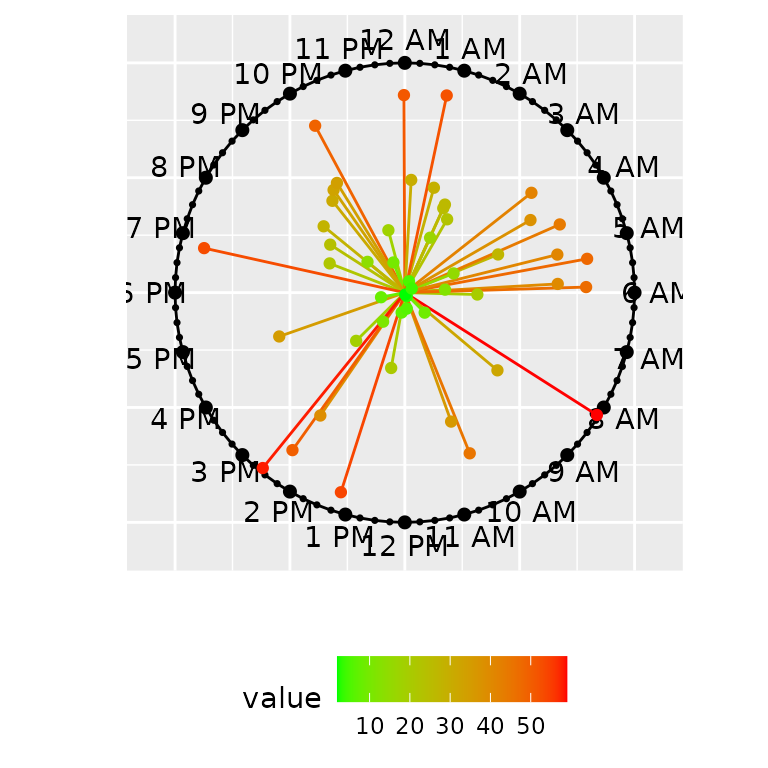
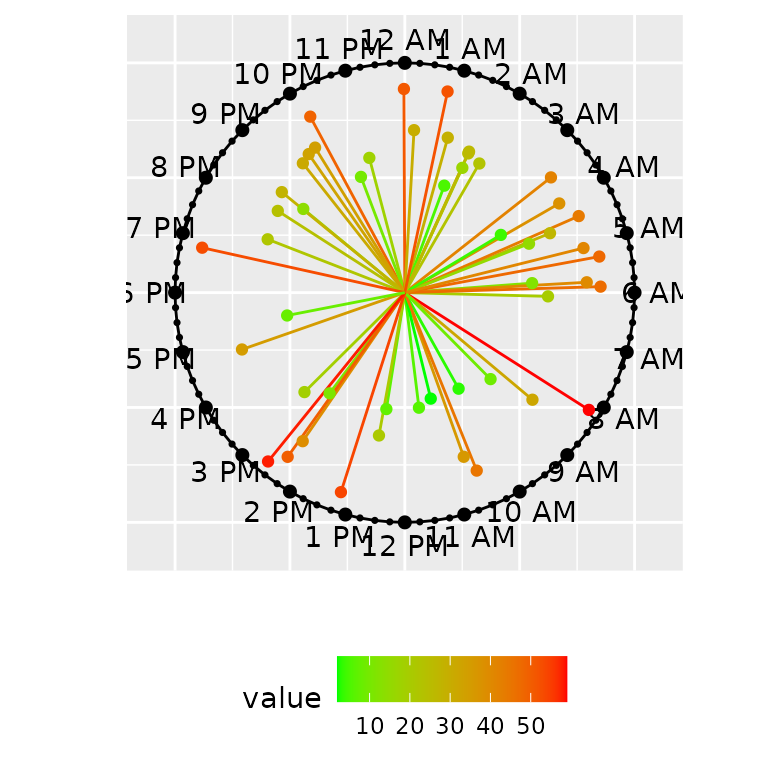
Deploying to gh-pages from @ mahmudstat/clockplot@1c2b78ede71a068915068b237c1ad4b2ace71b62 🚀

diff --git a/reference/clock_chart_qnt.html b/reference/clock_chart_qnt.html
@@ -1,5 +1,5 @@
 <!DOCTYPE html>
-<!-- Generated by pkgdown: do not edit by hand --><html lang="en"><head><meta http-equiv="Content-Type" content="text/html; charset=UTF-8"><meta charset="utf-8"><meta http-equiv="X-UA-Compatible" content="IE=edge"><meta name="viewport" content="width=device-width, initial-scale=1, shrink-to-fit=no"><title>Clock Chart, Length and Color Modified by a Numeric Variable — clock_chart_qnt • clockplot</title><!-- favicons --><link rel="icon" type="image/png" sizes="16x16" href="../favicon-16x16.png"><link rel="icon" type="image/png" sizes="32x32" href="../favicon-32x32.png"><link rel="apple-touch-icon" type="image/png" sizes="180x180" href="../apple-touch-icon.png"><link rel="apple-touch-icon" type="image/png" sizes="120x120" href="../apple-touch-icon-120x120.png"><link rel="apple-touch-icon" type="image/png" sizes="76x76" href="../apple-touch-icon-76x76.png"><link rel="apple-touch-icon" type="image/png" sizes="60x60" href="../apple-touch-icon-60x60.png"><script src="../deps/jquery-3.6.0/jquery-3.6.0.min.js"></script><meta name="viewport" content="width=device-width, initial-scale=1, shrink-to-fit=no"><link href="../deps/bootstrap-5.3.1/bootstrap.min.css" rel="stylesheet"><script src="../deps/bootstrap-5.3.1/bootstrap.bundle.min.js"></script><link href="../deps/font-awesome-6.4.2/css/all.min.css" rel="stylesheet"><link href="../deps/font-awesome-6.4.2/css/v4-shims.min.css" rel="stylesheet"><script src="../deps/headroom-0.11.0/headroom.min.js"></script><script src="../deps/headroom-0.11.0/jQuery.headroom.min.js"></script><script src="../deps/bootstrap-toc-1.0.1/bootstrap-toc.min.js"></script><script src="../deps/clipboard.js-2.0.11/clipboard.min.js"></script><script src="../deps/search-1.0.0/autocomplete.jquery.min.js"></script><script src="../deps/search-1.0.0/fuse.min.js"></script><script src="../deps/search-1.0.0/mark.min.js"></script><!-- pkgdown --><script src="../pkgdown.js"></script><meta property="og:title" content="Clock Chart, Length and Color Modified by a Numeric Variable — clock_chart_qnt"><meta name="description" content="This function will plot time of events on a 24 hour clock to show which
+<!-- Generated by pkgdown: do not edit by hand --><html lang="en"><head><meta http-equiv="Content-Type" content="text/html; charset=UTF-8"><meta charset="utf-8"><meta http-equiv="X-UA-Compatible" content="IE=edge"><meta name="viewport" content="width=device-width, initial-scale=1, shrink-to-fit=no"><title>Clock Chart, Length and Color Modified by Numeric Variables — clock_chart_qnt • clockplot</title><!-- favicons --><link rel="icon" type="image/png" sizes="16x16" href="../favicon-16x16.png"><link rel="icon" type="image/png" sizes="32x32" href="../favicon-32x32.png"><link rel="apple-touch-icon" type="image/png" sizes="180x180" href="../apple-touch-icon.png"><link rel="apple-touch-icon" type="image/png" sizes="120x120" href="../apple-touch-icon-120x120.png"><link rel="apple-touch-icon" type="image/png" sizes="76x76" href="../apple-touch-icon-76x76.png"><link rel="apple-touch-icon" type="image/png" sizes="60x60" href="../apple-touch-icon-60x60.png"><script src="../deps/jquery-3.6.0/jquery-3.6.0.min.js"></script><meta name="viewport" content="width=device-width, initial-scale=1, shrink-to-fit=no"><link href="../deps/bootstrap-5.3.1/bootstrap.min.css" rel="stylesheet"><script src="../deps/bootstrap-5.3.1/bootstrap.bundle.min.js"></script><link href="../deps/font-awesome-6.4.2/css/all.min.css" rel="stylesheet"><link href="../deps/font-awesome-6.4.2/css/v4-shims.min.css" rel="stylesheet"><script src="../deps/headroom-0.11.0/headroom.min.js"></script><script src="../deps/headroom-0.11.0/jQuery.headroom.min.js"></script><script src="../deps/bootstrap-toc-1.0.1/bootstrap-toc.min.js"></script><script src="../deps/clipboard.js-2.0.11/clipboard.min.js"></script><script src="../deps/search-1.0.0/autocomplete.jquery.min.js"></script><script src="../deps/search-1.0.0/fuse.min.js"></script><script src="../deps/search-1.0.0/mark.min.js"></script><!-- pkgdown --><script src="../pkgdown.js"></script><meta property="og:title" content="Clock Chart, Length and Color Modified by Numeric Variables — clock_chart_qnt"><meta name="description" content="This function will plot time of events on a 24 hour clock to show which
 events took place at what times. The length and color of the hands are
 modified according to a numeric vector."><meta property="og:description" content="This function will plot time of events on a 24 hour clock to show which
 events took place at what times. The length and color of the hands are
@@ -34,7 +34,7 @@ modified according to a numeric vector."><meta property="og:image" content="http
 </nav><div class="container template-reference-topic">
 <div class="row">
   <main id="main" class="col-md-9"><div class="page-header">
-      <img src="../logo.png" class="logo" alt=""><h1>Clock Chart, Length and Color Modified by a Numeric Variable</h1>
+      <img src="../logo.png" class="logo" alt=""><h1>Clock Chart, Length and Color Modified by Numeric Variables</h1>
 
       <div class="d-none name"><code>clock_chart_qnt.Rd</code></div>
     </div>
@@ -100,7 +100,7 @@ excluding more complex options.</p>
     <div class="section level2">
     <h2 id="ref-examples">Examples<a class="anchor" aria-label="anchor" href="#ref-examples"></a></h2>
     <div class="sourceCode"><pre class="sourceCode r"><code><span class="r-in"><span><span class="va">p1</span> <span class="op">&lt;-</span> <span class="fu">clock_chart_qnt</span><span class="op">(</span>data <span class="op">=</span> <span class="va">bdquake</span>, time <span class="op">=</span> <span class="va">hms</span>, len <span class="op">=</span> <span class="va">depth</span>,</span></span>
-<span class="r-in"><span>Col <span class="op">=</span> <span class="va">mag</span>, high <span class="op">=</span> <span class="st">"red"</span>, low <span class="op">=</span> <span class="st">"yellow"</span><span class="op">)</span></span></span>
+<span class="r-in"><span>Col <span class="op">=</span> <span class="va">mag</span>, high <span class="op">=</span> <span class="st">"red"</span>, low <span class="op">=</span> <span class="st">"blue"</span><span class="op">)</span></span></span>
 <span class="r-in"><span><span class="va">p1</span> <span class="op">+</span> <span class="fu">ggplot2</span><span class="fu">::</span><span class="fu"><a href="https://ggplot2.tidyverse.org/reference/labs.html" class="external-link">labs</a></span><span class="op">(</span>color <span class="op">=</span> <span class="st">"Depth"</span>, size <span class="op">=</span> <span class="st">"Magnitude"</span>,</span></span>
 <span class="r-in"><span>title <span class="op">=</span> <span class="st">"Earthquakes in Bangladesh since 2023"</span><span class="op">)</span></span></span>
 <span class="r-plt img"><img src="clock_chart_qnt-1.png" alt="" width="700" height="433"></span>

diff --git a/reference/bdtemp.html b/reference/bdtemp.html
@@ -1,5 +1,5 @@
 <!DOCTYPE html>
-<!-- Generated by pkgdown: do not edit by hand --><html lang="en"><head><meta http-equiv="Content-Type" content="text/html; charset=UTF-8"><meta charset="utf-8"><meta http-equiv="X-UA-Compatible" content="IE=edge"><meta name="viewport" content="width=device-width, initial-scale=1, shrink-to-fit=no"><title>Temperature data of Bangladesh Divisional Cities — bdtemp • clockplot</title><!-- favicons --><link rel="icon" type="image/png" sizes="16x16" href="../favicon-16x16.png"><link rel="icon" type="image/png" sizes="32x32" href="../favicon-32x32.png"><link rel="apple-touch-icon" type="image/png" sizes="180x180" href="../apple-touch-icon.png"><link rel="apple-touch-icon" type="image/png" sizes="120x120" href="../apple-touch-icon-120x120.png"><link rel="apple-touch-icon" type="image/png" sizes="76x76" href="../apple-touch-icon-76x76.png"><link rel="apple-touch-icon" type="image/png" sizes="60x60" href="../apple-touch-icon-60x60.png"><script src="../deps/jquery-3.6.0/jquery-3.6.0.min.js"></script><meta name="viewport" content="width=device-width, initial-scale=1, shrink-to-fit=no"><link href="../deps/bootstrap-5.3.1/bootstrap.min.css" rel="stylesheet"><script src="../deps/bootstrap-5.3.1/bootstrap.bundle.min.js"></script><link href="../deps/font-awesome-6.4.2/css/all.min.css" rel="stylesheet"><link href="../deps/font-awesome-6.4.2/css/v4-shims.min.css" rel="stylesheet"><script src="../deps/headroom-0.11.0/headroom.min.js"></script><script src="../deps/headroom-0.11.0/jQuery.headroom.min.js"></script><script src="../deps/bootstrap-toc-1.0.1/bootstrap-toc.min.js"></script><script src="../deps/clipboard.js-2.0.11/clipboard.min.js"></script><script src="../deps/search-1.0.0/autocomplete.jquery.min.js"></script><script src="../deps/search-1.0.0/fuse.min.js"></script><script src="../deps/search-1.0.0/mark.min.js"></script><!-- pkgdown --><script src="../pkgdown.js"></script><meta property="og:title" content="Temperature data of Bangladesh Divisional Cities — bdtemp"><meta name="description" content="A dataset containing temperature of Dhaka, Sylhet, and Chittagong Cities."><meta property="og:description" content="A dataset containing temperature of Dhaka, Sylhet, and Chittagong Cities."><meta property="og:image" content="https://mahmudstat.github.io/clockplot/logo.png"></head><body>
+<!-- Generated by pkgdown: do not edit by hand --><html lang="en"><head><meta http-equiv="Content-Type" content="text/html; charset=UTF-8"><meta charset="utf-8"><meta http-equiv="X-UA-Compatible" content="IE=edge"><meta name="viewport" content="width=device-width, initial-scale=1, shrink-to-fit=no"><title>Data of Average Monthly Temperature of Bangladesh Divisional Cities — bdtemp • clockplot</title><!-- favicons --><link rel="icon" type="image/png" sizes="16x16" href="../favicon-16x16.png"><link rel="icon" type="image/png" sizes="32x32" href="../favicon-32x32.png"><link rel="apple-touch-icon" type="image/png" sizes="180x180" href="../apple-touch-icon.png"><link rel="apple-touch-icon" type="image/png" sizes="120x120" href="../apple-touch-icon-120x120.png"><link rel="apple-touch-icon" type="image/png" sizes="76x76" href="../apple-touch-icon-76x76.png"><link rel="apple-touch-icon" type="image/png" sizes="60x60" href="../apple-touch-icon-60x60.png"><script src="../deps/jquery-3.6.0/jquery-3.6.0.min.js"></script><meta name="viewport" content="width=device-width, initial-scale=1, shrink-to-fit=no"><link href="../deps/bootstrap-5.3.1/bootstrap.min.css" rel="stylesheet"><script src="../deps/bootstrap-5.3.1/bootstrap.bundle.min.js"></script><link href="../deps/font-awesome-6.4.2/css/all.min.css" rel="stylesheet"><link href="../deps/font-awesome-6.4.2/css/v4-shims.min.css" rel="stylesheet"><script src="../deps/headroom-0.11.0/headroom.min.js"></script><script src="../deps/headroom-0.11.0/jQuery.headroom.min.js"></script><script src="../deps/bootstrap-toc-1.0.1/bootstrap-toc.min.js"></script><script src="../deps/clipboard.js-2.0.11/clipboard.min.js"></script><script src="../deps/search-1.0.0/autocomplete.jquery.min.js"></script><script src="../deps/search-1.0.0/fuse.min.js"></script><script src="../deps/search-1.0.0/mark.min.js"></script><!-- pkgdown --><script src="../pkgdown.js"></script><meta property="og:title" content="Data of Average Monthly Temperature of Bangladesh Divisional Cities — bdtemp"><meta name="description" content="A dataset containing temperature of Dhaka, Sylhet, and Chittagong Cities."><meta property="og:description" content="A dataset containing temperature of Dhaka, Sylhet, and Chittagong Cities."><meta property="og:image" content="https://mahmudstat.github.io/clockplot/logo.png"></head><body>
     <a href="#main" class="visually-hidden-focusable">Skip to contents</a>
 
 
@@ -30,7 +30,7 @@
 </nav><div class="container template-reference-topic">
 <div class="row">
   <main id="main" class="col-md-9"><div class="page-header">
-      <img src="../logo.png" class="logo" alt=""><h1>Temperature data of Bangladesh Divisional Cities</h1>
+      <img src="../logo.png" class="logo" alt=""><h1>Data of Average Monthly Temperature of Bangladesh Divisional Cities</h1>
 
       <div class="d-none name"><code>bdtemp.Rd</code></div>
     </div>

diff --git a/reference/clock_chart_col.html b/reference/clock_chart_col.html
@@ -1,5 +1,5 @@
 <!DOCTYPE html>
-<!-- Generated by pkgdown: do not edit by hand --><html lang="en"><head><meta http-equiv="Content-Type" content="text/html; charset=UTF-8"><meta charset="utf-8"><meta http-equiv="X-UA-Compatible" content="IE=edge"><meta name="viewport" content="width=device-width, initial-scale=1, shrink-to-fit=no"><title>A Clock Chart, Hands Colored by a Numeric Variable — clock_chart_col • clockplot</title><!-- favicons --><link rel="icon" type="image/png" sizes="16x16" href="../favicon-16x16.png"><link rel="icon" type="image/png" sizes="32x32" href="../favicon-32x32.png"><link rel="apple-touch-icon" type="image/png" sizes="180x180" href="../apple-touch-icon.png"><link rel="apple-touch-icon" type="image/png" sizes="120x120" href="../apple-touch-icon-120x120.png"><link rel="apple-touch-icon" type="image/png" sizes="76x76" href="../apple-touch-icon-76x76.png"><link rel="apple-touch-icon" type="image/png" sizes="60x60" href="../apple-touch-icon-60x60.png"><script src="../deps/jquery-3.6.0/jquery-3.6.0.min.js"></script><meta name="viewport" content="width=device-width, initial-scale=1, shrink-to-fit=no"><link href="../deps/bootstrap-5.3.1/bootstrap.min.css" rel="stylesheet"><script src="../deps/bootstrap-5.3.1/bootstrap.bundle.min.js"></script><link href="../deps/font-awesome-6.4.2/css/all.min.css" rel="stylesheet"><link href="../deps/font-awesome-6.4.2/css/v4-shims.min.css" rel="stylesheet"><script src="../deps/headroom-0.11.0/headroom.min.js"></script><script src="../deps/headroom-0.11.0/jQuery.headroom.min.js"></script><script src="../deps/bootstrap-toc-1.0.1/bootstrap-toc.min.js"></script><script src="../deps/clipboard.js-2.0.11/clipboard.min.js"></script><script src="../deps/search-1.0.0/autocomplete.jquery.min.js"></script><script src="../deps/search-1.0.0/fuse.min.js"></script><script src="../deps/search-1.0.0/mark.min.js"></script><!-- pkgdown --><script src="../pkgdown.js"></script><meta property="og:title" content="A Clock Chart, Hands Colored by a Numeric Variable — clock_chart_col"><meta name="description" content="This function will plot time of events on a 24 hour clock to show which
+<!-- Generated by pkgdown: do not edit by hand --><html lang="en"><head><meta http-equiv="Content-Type" content="text/html; charset=UTF-8"><meta charset="utf-8"><meta http-equiv="X-UA-Compatible" content="IE=edge"><meta name="viewport" content="width=device-width, initial-scale=1, shrink-to-fit=no"><title>Clock Chart, Hands Colored by a Numeric Variable — clock_chart_col • clockplot</title><!-- favicons --><link rel="icon" type="image/png" sizes="16x16" href="../favicon-16x16.png"><link rel="icon" type="image/png" sizes="32x32" href="../favicon-32x32.png"><link rel="apple-touch-icon" type="image/png" sizes="180x180" href="../apple-touch-icon.png"><link rel="apple-touch-icon" type="image/png" sizes="120x120" href="../apple-touch-icon-120x120.png"><link rel="apple-touch-icon" type="image/png" sizes="76x76" href="../apple-touch-icon-76x76.png"><link rel="apple-touch-icon" type="image/png" sizes="60x60" href="../apple-touch-icon-60x60.png"><script src="../deps/jquery-3.6.0/jquery-3.6.0.min.js"></script><meta name="viewport" content="width=device-width, initial-scale=1, shrink-to-fit=no"><link href="../deps/bootstrap-5.3.1/bootstrap.min.css" rel="stylesheet"><script src="../deps/bootstrap-5.3.1/bootstrap.bundle.min.js"></script><link href="../deps/font-awesome-6.4.2/css/all.min.css" rel="stylesheet"><link href="../deps/font-awesome-6.4.2/css/v4-shims.min.css" rel="stylesheet"><script src="../deps/headroom-0.11.0/headroom.min.js"></script><script src="../deps/headroom-0.11.0/jQuery.headroom.min.js"></script><script src="../deps/bootstrap-toc-1.0.1/bootstrap-toc.min.js"></script><script src="../deps/clipboard.js-2.0.11/clipboard.min.js"></script><script src="../deps/search-1.0.0/autocomplete.jquery.min.js"></script><script src="../deps/search-1.0.0/fuse.min.js"></script><script src="../deps/search-1.0.0/mark.min.js"></script><!-- pkgdown --><script src="../pkgdown.js"></script><meta property="og:title" content="Clock Chart, Hands Colored by a Numeric Variable — clock_chart_col"><meta name="description" content="This function will plot time of events on a 24 hour clock to show which
 events took place at what times. The lines are colored by a criteria."><meta property="og:description" content="This function will plot time of events on a 24 hour clock to show which
 events took place at what times. The lines are colored by a criteria."><meta property="og:image" content="https://mahmudstat.github.io/clockplot/logo.png"></head><body>
     <a href="#main" class="visually-hidden-focusable">Skip to contents</a>
@@ -32,7 +32,7 @@ events took place at what times. The lines are colored by a criteria."><meta pro
 </nav><div class="container template-reference-topic">
 <div class="row">
   <main id="main" class="col-md-9"><div class="page-header">
-      <img src="../logo.png" class="logo" alt=""><h1>A Clock Chart, Hands Colored by a Numeric Variable</h1>
+      <img src="../logo.png" class="logo" alt=""><h1>Clock Chart, Hands Colored by a Numeric Variable</h1>
 
       <div class="d-none name"><code>clock_chart_col.Rd</code></div>
     </div>

diff --git a/reference/bdquake.html b/reference/bdquake.html
@@ -1,5 +1,5 @@
 <!DOCTYPE html>
-<!-- Generated by pkgdown: do not edit by hand --><html lang="en"><head><meta http-equiv="Content-Type" content="text/html; charset=UTF-8"><meta charset="utf-8"><meta http-equiv="X-UA-Compatible" content="IE=edge"><meta name="viewport" content="width=device-width, initial-scale=1, shrink-to-fit=no"><title>Earthquakes in and around Bangladesh — bdquake • clockplot</title><!-- favicons --><link rel="icon" type="image/png" sizes="16x16" href="../favicon-16x16.png"><link rel="icon" type="image/png" sizes="32x32" href="../favicon-32x32.png"><link rel="apple-touch-icon" type="image/png" sizes="180x180" href="../apple-touch-icon.png"><link rel="apple-touch-icon" type="image/png" sizes="120x120" href="../apple-touch-icon-120x120.png"><link rel="apple-touch-icon" type="image/png" sizes="76x76" href="../apple-touch-icon-76x76.png"><link rel="apple-touch-icon" type="image/png" sizes="60x60" href="../apple-touch-icon-60x60.png"><script src="../deps/jquery-3.6.0/jquery-3.6.0.min.js"></script><meta name="viewport" content="width=device-width, initial-scale=1, shrink-to-fit=no"><link href="../deps/bootstrap-5.3.1/bootstrap.min.css" rel="stylesheet"><script src="../deps/bootstrap-5.3.1/bootstrap.bundle.min.js"></script><link href="../deps/font-awesome-6.4.2/css/all.min.css" rel="stylesheet"><link href="../deps/font-awesome-6.4.2/css/v4-shims.min.css" rel="stylesheet"><script src="../deps/headroom-0.11.0/headroom.min.js"></script><script src="../deps/headroom-0.11.0/jQuery.headroom.min.js"></script><script src="../deps/bootstrap-toc-1.0.1/bootstrap-toc.min.js"></script><script src="../deps/clipboard.js-2.0.11/clipboard.min.js"></script><script src="../deps/search-1.0.0/autocomplete.jquery.min.js"></script><script src="../deps/search-1.0.0/fuse.min.js"></script><script src="../deps/search-1.0.0/mark.min.js"></script><!-- pkgdown --><script src="../pkgdown.js"></script><meta property="og:title" content="Earthquakes in and around Bangladesh — bdquake"><meta name="description" content="A dataset containing earthquakes magnitude, dpeth, and location information."><meta property="og:description" content="A dataset containing earthquakes magnitude, dpeth, and location information."><meta property="og:image" content="https://mahmudstat.github.io/clockplot/logo.png"></head><body>
+<!-- Generated by pkgdown: do not edit by hand --><html lang="en"><head><meta http-equiv="Content-Type" content="text/html; charset=UTF-8"><meta charset="utf-8"><meta http-equiv="X-UA-Compatible" content="IE=edge"><meta name="viewport" content="width=device-width, initial-scale=1, shrink-to-fit=no"><title>Data of Earthquakes in and around Bangladesh — bdquake • clockplot</title><!-- favicons --><link rel="icon" type="image/png" sizes="16x16" href="../favicon-16x16.png"><link rel="icon" type="image/png" sizes="32x32" href="../favicon-32x32.png"><link rel="apple-touch-icon" type="image/png" sizes="180x180" href="../apple-touch-icon.png"><link rel="apple-touch-icon" type="image/png" sizes="120x120" href="../apple-touch-icon-120x120.png"><link rel="apple-touch-icon" type="image/png" sizes="76x76" href="../apple-touch-icon-76x76.png"><link rel="apple-touch-icon" type="image/png" sizes="60x60" href="../apple-touch-icon-60x60.png"><script src="../deps/jquery-3.6.0/jquery-3.6.0.min.js"></script><meta name="viewport" content="width=device-width, initial-scale=1, shrink-to-fit=no"><link href="../deps/bootstrap-5.3.1/bootstrap.min.css" rel="stylesheet"><script src="../deps/bootstrap-5.3.1/bootstrap.bundle.min.js"></script><link href="../deps/font-awesome-6.4.2/css/all.min.css" rel="stylesheet"><link href="../deps/font-awesome-6.4.2/css/v4-shims.min.css" rel="stylesheet"><script src="../deps/headroom-0.11.0/headroom.min.js"></script><script src="../deps/headroom-0.11.0/jQuery.headroom.min.js"></script><script src="../deps/bootstrap-toc-1.0.1/bootstrap-toc.min.js"></script><script src="../deps/clipboard.js-2.0.11/clipboard.min.js"></script><script src="../deps/search-1.0.0/autocomplete.jquery.min.js"></script><script src="../deps/search-1.0.0/fuse.min.js"></script><script src="../deps/search-1.0.0/mark.min.js"></script><!-- pkgdown --><script src="../pkgdown.js"></script><meta property="og:title" content="Data of Earthquakes in and around Bangladesh — bdquake"><meta name="description" content="A dataset containing earthquakes magnitude, dpeth, and location information."><meta property="og:description" content="A dataset containing earthquakes magnitude, dpeth, and location information."><meta property="og:image" content="https://mahmudstat.github.io/clockplot/logo.png"></head><body>
     <a href="#main" class="visually-hidden-focusable">Skip to contents</a>
 
 
@@ -30,7 +30,7 @@
 </nav><div class="container template-reference-topic">
 <div class="row">
   <main id="main" class="col-md-9"><div class="page-header">
-      <img src="../logo.png" class="logo" alt=""><h1>Earthquakes in and around Bangladesh</h1>
+      <img src="../logo.png" class="logo" alt=""><h1>Data of Earthquakes in and around Bangladesh</h1>
 
       <div class="d-none name"><code>bdquake.Rd</code></div>
     </div>

diff --git a/reference/clock_chart_qlt.html b/reference/clock_chart_qlt.html
@@ -1,5 +1,5 @@
 <!DOCTYPE html>
-<!-- Generated by pkgdown: do not edit by hand --><html lang="en"><head><meta http-equiv="Content-Type" content="text/html; charset=UTF-8"><meta charset="utf-8"><meta http-equiv="X-UA-Compatible" content="IE=edge"><meta name="viewport" content="width=device-width, initial-scale=1, shrink-to-fit=no"><title>A Clock Chart, Hands Colored by a Factor — clock_chart_qlt • clockplot</title><!-- favicons --><link rel="icon" type="image/png" sizes="16x16" href="../favicon-16x16.png"><link rel="icon" type="image/png" sizes="32x32" href="../favicon-32x32.png"><link rel="apple-touch-icon" type="image/png" sizes="180x180" href="../apple-touch-icon.png"><link rel="apple-touch-icon" type="image/png" sizes="120x120" href="../apple-touch-icon-120x120.png"><link rel="apple-touch-icon" type="image/png" sizes="76x76" href="../apple-touch-icon-76x76.png"><link rel="apple-touch-icon" type="image/png" sizes="60x60" href="../apple-touch-icon-60x60.png"><script src="../deps/jquery-3.6.0/jquery-3.6.0.min.js"></script><meta name="viewport" content="width=device-width, initial-scale=1, shrink-to-fit=no"><link href="../deps/bootstrap-5.3.1/bootstrap.min.css" rel="stylesheet"><script src="../deps/bootstrap-5.3.1/bootstrap.bundle.min.js"></script><link href="../deps/font-awesome-6.4.2/css/all.min.css" rel="stylesheet"><link href="../deps/font-awesome-6.4.2/css/v4-shims.min.css" rel="stylesheet"><script src="../deps/headroom-0.11.0/headroom.min.js"></script><script src="../deps/headroom-0.11.0/jQuery.headroom.min.js"></script><script src="../deps/bootstrap-toc-1.0.1/bootstrap-toc.min.js"></script><script src="../deps/clipboard.js-2.0.11/clipboard.min.js"></script><script src="../deps/search-1.0.0/autocomplete.jquery.min.js"></script><script src="../deps/search-1.0.0/fuse.min.js"></script><script src="../deps/search-1.0.0/mark.min.js"></script><!-- pkgdown --><script src="../pkgdown.js"></script><meta property="og:title" content="A Clock Chart, Hands Colored by a Factor — clock_chart_qlt"><meta name="description" content="This function will plot time of events on a 24 hour clock to show which
+<!-- Generated by pkgdown: do not edit by hand --><html lang="en"><head><meta http-equiv="Content-Type" content="text/html; charset=UTF-8"><meta charset="utf-8"><meta http-equiv="X-UA-Compatible" content="IE=edge"><meta name="viewport" content="width=device-width, initial-scale=1, shrink-to-fit=no"><title>Clock Chart, Hands Colored by a Factor — clock_chart_qlt • clockplot</title><!-- favicons --><link rel="icon" type="image/png" sizes="16x16" href="../favicon-16x16.png"><link rel="icon" type="image/png" sizes="32x32" href="../favicon-32x32.png"><link rel="apple-touch-icon" type="image/png" sizes="180x180" href="../apple-touch-icon.png"><link rel="apple-touch-icon" type="image/png" sizes="120x120" href="../apple-touch-icon-120x120.png"><link rel="apple-touch-icon" type="image/png" sizes="76x76" href="../apple-touch-icon-76x76.png"><link rel="apple-touch-icon" type="image/png" sizes="60x60" href="../apple-touch-icon-60x60.png"><script src="../deps/jquery-3.6.0/jquery-3.6.0.min.js"></script><meta name="viewport" content="width=device-width, initial-scale=1, shrink-to-fit=no"><link href="../deps/bootstrap-5.3.1/bootstrap.min.css" rel="stylesheet"><script src="../deps/bootstrap-5.3.1/bootstrap.bundle.min.js"></script><link href="../deps/font-awesome-6.4.2/css/all.min.css" rel="stylesheet"><link href="../deps/font-awesome-6.4.2/css/v4-shims.min.css" rel="stylesheet"><script src="../deps/headroom-0.11.0/headroom.min.js"></script><script src="../deps/headroom-0.11.0/jQuery.headroom.min.js"></script><script src="../deps/bootstrap-toc-1.0.1/bootstrap-toc.min.js"></script><script src="../deps/clipboard.js-2.0.11/clipboard.min.js"></script><script src="../deps/search-1.0.0/autocomplete.jquery.min.js"></script><script src="../deps/search-1.0.0/fuse.min.js"></script><script src="../deps/search-1.0.0/mark.min.js"></script><!-- pkgdown --><script src="../pkgdown.js"></script><meta property="og:title" content="Clock Chart, Hands Colored by a Factor — clock_chart_qlt"><meta name="description" content="This function will plot time of events on a 24 hour clock to show which
 events took place at what times. The hands are colored by a
 qualitative (factor) vector."><meta property="og:description" content="This function will plot time of events on a 24 hour clock to show which
 events took place at what times. The hands are colored by a
@@ -34,7 +34,7 @@ qualitative (factor) vector."><meta property="og:image" content="https://mahmuds
 </nav><div class="container template-reference-topic">
 <div class="row">
   <main id="main" class="col-md-9"><div class="page-header">
-      <img src="../logo.png" class="logo" alt=""><h1>A Clock Chart, Hands Colored by a Factor</h1>
+      <img src="../logo.png" class="logo" alt=""><h1>Clock Chart, Hands Colored by a Factor</h1>
 
       <div class="d-none name"><code>clock_chart_qlt.Rd</code></div>
     </div>

diff --git a/reference/smsclock.html b/reference/smsclock.html
@@ -1,5 +1,5 @@
 <!DOCTYPE html>
-<!-- Generated by pkgdown: do not edit by hand --><html lang="en"><head><meta http-equiv="Content-Type" content="text/html; charset=UTF-8"><meta charset="utf-8"><meta http-equiv="X-UA-Compatible" content="IE=edge"><meta name="viewport" content="width=device-width, initial-scale=1, shrink-to-fit=no"><title>Times of Receiving of SMS — smsclock • clockplot</title><!-- favicons --><link rel="icon" type="image/png" sizes="16x16" href="../favicon-16x16.png"><link rel="icon" type="image/png" sizes="32x32" href="../favicon-32x32.png"><link rel="apple-touch-icon" type="image/png" sizes="180x180" href="../apple-touch-icon.png"><link rel="apple-touch-icon" type="image/png" sizes="120x120" href="../apple-touch-icon-120x120.png"><link rel="apple-touch-icon" type="image/png" sizes="76x76" href="../apple-touch-icon-76x76.png"><link rel="apple-touch-icon" type="image/png" sizes="60x60" href="../apple-touch-icon-60x60.png"><script src="../deps/jquery-3.6.0/jquery-3.6.0.min.js"></script><meta name="viewport" content="width=device-width, initial-scale=1, shrink-to-fit=no"><link href="../deps/bootstrap-5.3.1/bootstrap.min.css" rel="stylesheet"><script src="../deps/bootstrap-5.3.1/bootstrap.bundle.min.js"></script><link href="../deps/font-awesome-6.4.2/css/all.min.css" rel="stylesheet"><link href="../deps/font-awesome-6.4.2/css/v4-shims.min.css" rel="stylesheet"><script src="../deps/headroom-0.11.0/headroom.min.js"></script><script src="../deps/headroom-0.11.0/jQuery.headroom.min.js"></script><script src="../deps/bootstrap-toc-1.0.1/bootstrap-toc.min.js"></script><script src="../deps/clipboard.js-2.0.11/clipboard.min.js"></script><script src="../deps/search-1.0.0/autocomplete.jquery.min.js"></script><script src="../deps/search-1.0.0/fuse.min.js"></script><script src="../deps/search-1.0.0/mark.min.js"></script><!-- pkgdown --><script src="../pkgdown.js"></script><meta property="og:title" content="Times of Receiving of SMS — smsclock"><meta name="description" content="A dataset containing timings of receiving sms on mobile phone.
+<!-- Generated by pkgdown: do not edit by hand --><html lang="en"><head><meta http-equiv="Content-Type" content="text/html; charset=UTF-8"><meta charset="utf-8"><meta http-equiv="X-UA-Compatible" content="IE=edge"><meta name="viewport" content="width=device-width, initial-scale=1, shrink-to-fit=no"><title>Data of Times of Receiving of SMS — smsclock • clockplot</title><!-- favicons --><link rel="icon" type="image/png" sizes="16x16" href="../favicon-16x16.png"><link rel="icon" type="image/png" sizes="32x32" href="../favicon-32x32.png"><link rel="apple-touch-icon" type="image/png" sizes="180x180" href="../apple-touch-icon.png"><link rel="apple-touch-icon" type="image/png" sizes="120x120" href="../apple-touch-icon-120x120.png"><link rel="apple-touch-icon" type="image/png" sizes="76x76" href="../apple-touch-icon-76x76.png"><link rel="apple-touch-icon" type="image/png" sizes="60x60" href="../apple-touch-icon-60x60.png"><script src="../deps/jquery-3.6.0/jquery-3.6.0.min.js"></script><meta name="viewport" content="width=device-width, initial-scale=1, shrink-to-fit=no"><link href="../deps/bootstrap-5.3.1/bootstrap.min.css" rel="stylesheet"><script src="../deps/bootstrap-5.3.1/bootstrap.bundle.min.js"></script><link href="../deps/font-awesome-6.4.2/css/all.min.css" rel="stylesheet"><link href="../deps/font-awesome-6.4.2/css/v4-shims.min.css" rel="stylesheet"><script src="../deps/headroom-0.11.0/headroom.min.js"></script><script src="../deps/headroom-0.11.0/jQuery.headroom.min.js"></script><script src="../deps/bootstrap-toc-1.0.1/bootstrap-toc.min.js"></script><script src="../deps/clipboard.js-2.0.11/clipboard.min.js"></script><script src="../deps/search-1.0.0/autocomplete.jquery.min.js"></script><script src="../deps/search-1.0.0/fuse.min.js"></script><script src="../deps/search-1.0.0/mark.min.js"></script><!-- pkgdown --><script src="../pkgdown.js"></script><meta property="og:title" content="Data of Times of Receiving of SMS — smsclock"><meta name="description" content="A dataset containing timings of receiving sms on mobile phone.
 Real data for a particular day"><meta property="og:description" content="A dataset containing timings of receiving sms on mobile phone.
 Real data for a particular day"><meta property="og:image" content="https://mahmudstat.github.io/clockplot/logo.png"></head><body>
     <a href="#main" class="visually-hidden-focusable">Skip to contents</a>
@@ -32,7 +32,7 @@ Real data for a particular day"><meta property="og:image" content="https://mahmu
 </nav><div class="container template-reference-topic">
 <div class="row">
   <main id="main" class="col-md-9"><div class="page-header">
-      <img src="../logo.png" class="logo" alt=""><h1>Times of Receiving of SMS</h1>
+      <img src="../logo.png" class="logo" alt=""><h1>Data of Times of Receiving of SMS</h1>
 
       <div class="d-none name"><code>smsclock.Rd</code></div>
     </div>

diff --git a/reference/index.html b/reference/index.html
@@ -49,13 +49,13 @@
           <code><a href="bdquake.html">bdquake</a></code>
 
         </dt>
-        <dd>Earthquakes in and around Bangladesh</dd>
+        <dd>Data of Earthquakes in and around Bangladesh</dd>
       </dl><dl><dt>
 
           <code><a href="bdtemp.html">bdtemp</a></code>
 
         </dt>
-        <dd>Temperature data of Bangladesh Divisional Cities</dd>
+        <dd>Data of Average Monthly Temperature of Bangladesh Divisional Cities</dd>
       </dl><dl><dt>
 
           <code><a href="chatdf.html">chatdf</a></code>
@@ -73,7 +73,7 @@
           <code><a href="clock_chart_col.html">clock_chart_col()</a></code>
 
         </dt>
-        <dd>A Clock Chart, Hands Colored by a Numeric Variable</dd>
+        <dd>Clock Chart, Hands Colored by a Numeric Variable</dd>
       </dl><dl><dt>
 
           <code><a href="clock_chart_len.html">clock_chart_len()</a></code>
@@ -85,13 +85,13 @@
           <code><a href="clock_chart_qlt.html">clock_chart_qlt()</a></code>
 
         </dt>
-        <dd>A Clock Chart, Hands Colored by a Factor</dd>
+        <dd>Clock Chart, Hands Colored by a Factor</dd>
       </dl><dl><dt>
 
           <code><a href="clock_chart_qnt.html">clock_chart_qnt()</a></code>
 
         </dt>
-        <dd>Clock Chart, Length and Color Modified by a Numeric Variable</dd>
+        <dd>Clock Chart, Length and Color Modified by Numeric Variables</dd>
       </dl><dl><dt>
 
           <code><a href="conv_hms.html">conv_hms()</a></code>
@@ -127,7 +127,7 @@
           <code><a href="smsclock.html">smsclock</a></code>
 
         </dt>
-        <dd>Times of Receiving of SMS</dd>
+        <dd>Data of Times of Receiving of SMS</dd>
       </dl><dl><dt>
 
           <code><a href="week_chart.html">week_chart()</a></code>

diff --git a/reference/chatdf.html b/reference/chatdf.html
@@ -63,7 +63,7 @@ The set contains 25 pushes by each individual</p>
 </dl></div>
     <div class="section level2">
     <h2 id="source">Source<a class="anchor" aria-label="anchor" href="#source"></a></h2>
-    <p><a href="#">#</a></p>
+    <p>Randomly generated</p>
     </div>
 
   </main><aside class="col-md-3"><nav id="toc" aria-label="Table of contents"><h2>On this page</h2>
